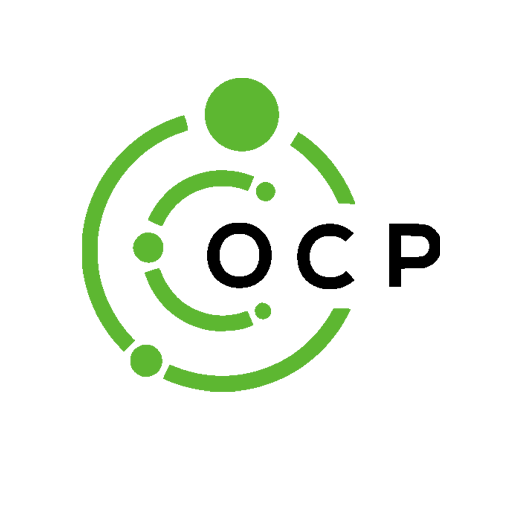
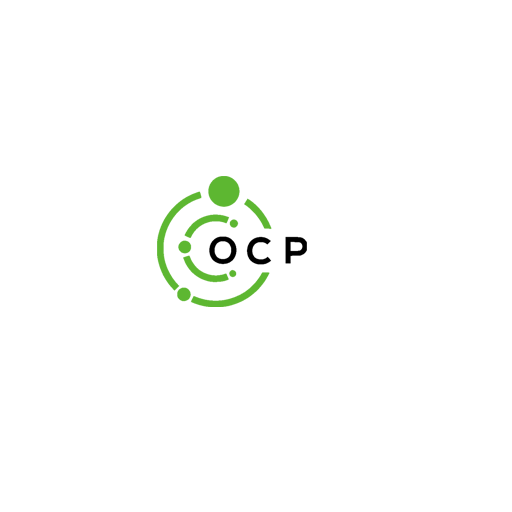
customize

Changed region(s): [[0.1562, 0.125, 0.6875, 0.7812], [0.75, 0.4375, 0.875, 0.5625], [0.5625, 0.25, 0.6875, 0.4062]]

diff --git a/src/App.js b/src/App.js
@@ -51,7 +51,7 @@ const App = () => {
                     </TooltipComponent>
                   </div>
                   {activeMenu ? (
-                    <div className="fixed left-4 top-4 h-[calc(100vh-32px)] w-80 z-10">
+                    <div className="fixed left-4 top-4 h-[calc(100vh-32px)] w-[280px] z-10">
                       <Sidebar />
                     </div>
                   ) : (
@@ -62,7 +62,7 @@ const App = () => {
                   <div
                     className={
                       activeMenu
-                        ? 'dark:bg-main-dark-bg  bg-main-bg min-h-screen md:ml-80 w-full  '
+                        ? 'dark:bg-main-dark-bg  bg-main-bg min-h-screen md:ml-[280px] w-full  '
                         : 'bg-main-bg dark:bg-main-dark-bg  w-full min-h-screen flex-2 '
                     }
                   >

diff --git a/src/components/Sidebar.jsx b/src/components/Sidebar.jsx
@@ -25,7 +25,7 @@ const Sidebar = () => {
         <>
           <div className="flex items-center justify-between mb-6">
             <Link to="/" onClick={handleCloseSideBar} className="flex items-center gap-2 text-lg font-bold text-slate-900 dark:text-white">
-              <div className="flex h-8 w-8 items-center justify-center rounded-lg bg-blue-500 text-white">
+              <div className="flex h-8 w-8 items-center justify-center rounded-lg bg-blue-200 text-white">
                 <CiStar />
               </div>
               <span>OCP Dash</span>
@@ -45,7 +45,7 @@ const Sidebar = () => {
             {links.map((item) => (
               <div key={item.title} className="mb-6">
                 <p className="text-xs font-semibold text-gray-400 uppercase tracking-wider px-1 mb-3">{item.title}</p>
-                <div className="rounded-[16px] bg-slate-50 dark:bg-[#111827] p-2 space-y-2">
+                <div className="rounded-[16px] bg-white dark:bg-[#111827] p-2 space-y-2">
                   {item.links.map((link) => (
                     <NavLink
                       to={`/${link.name}`}